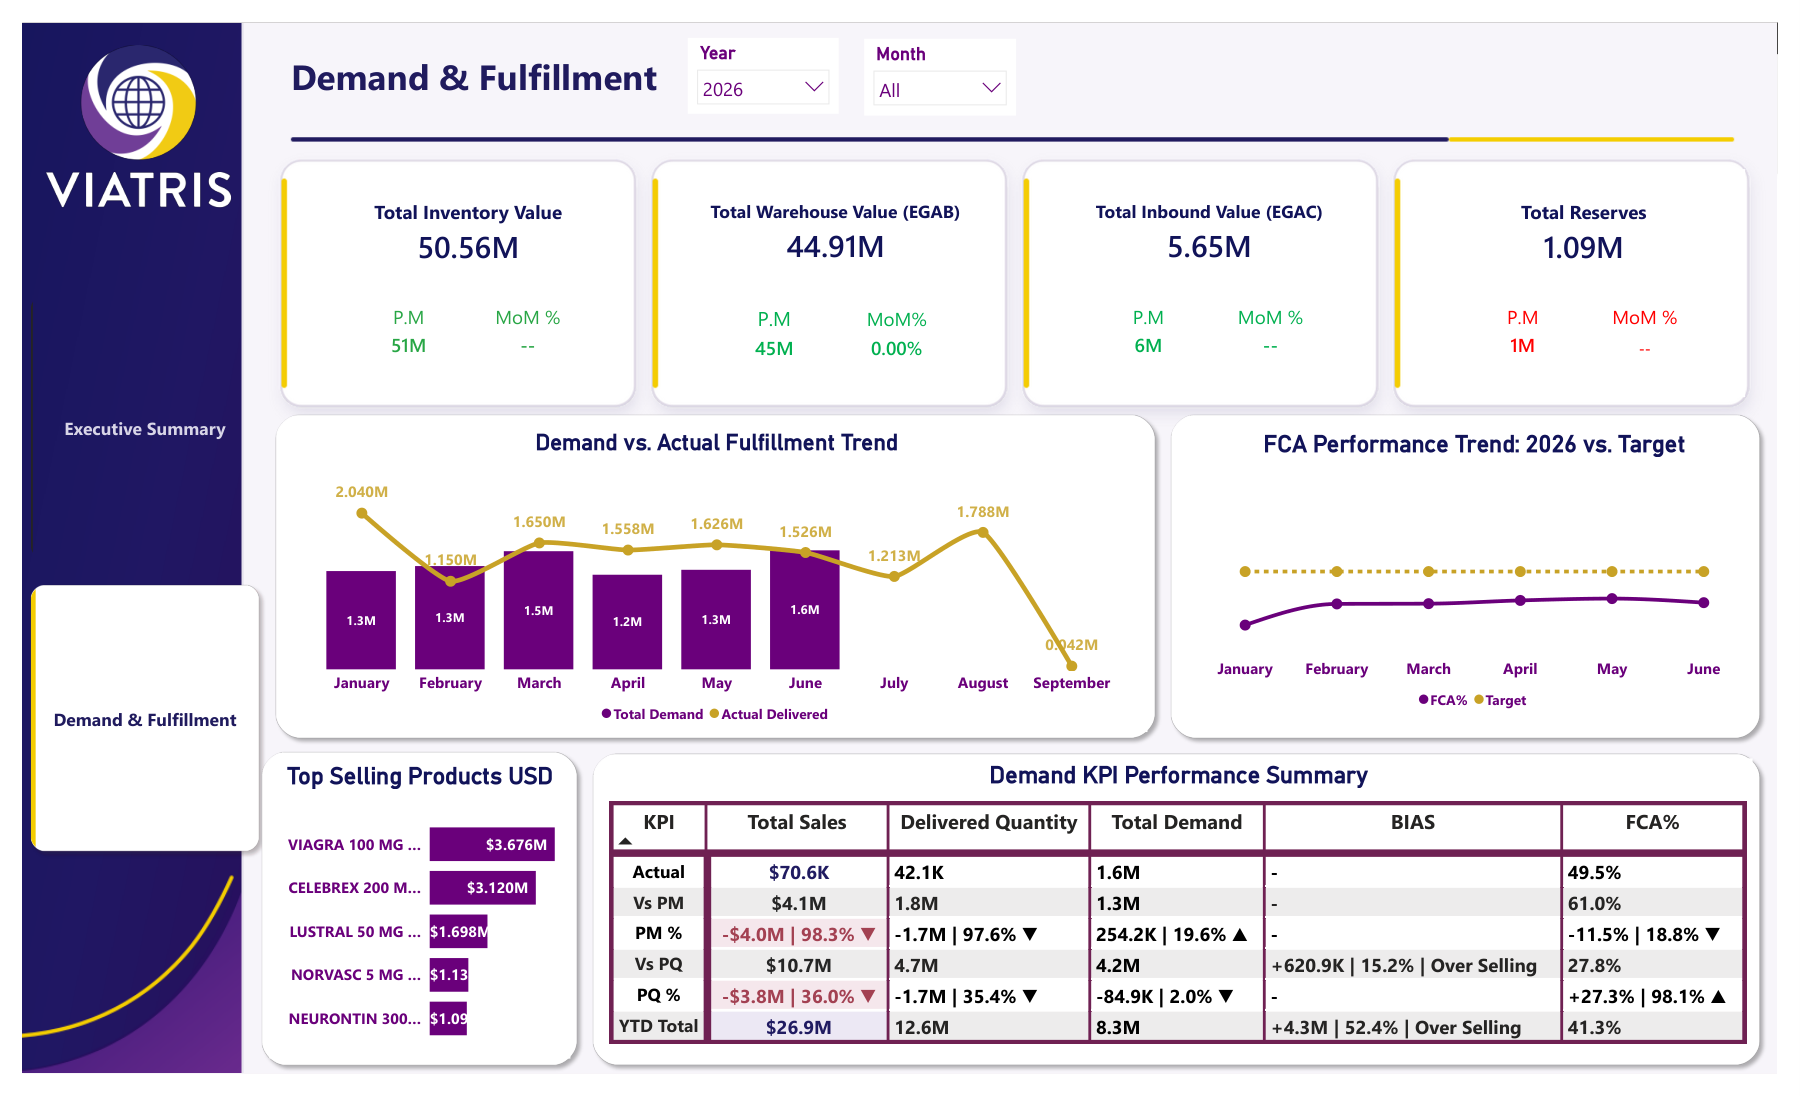
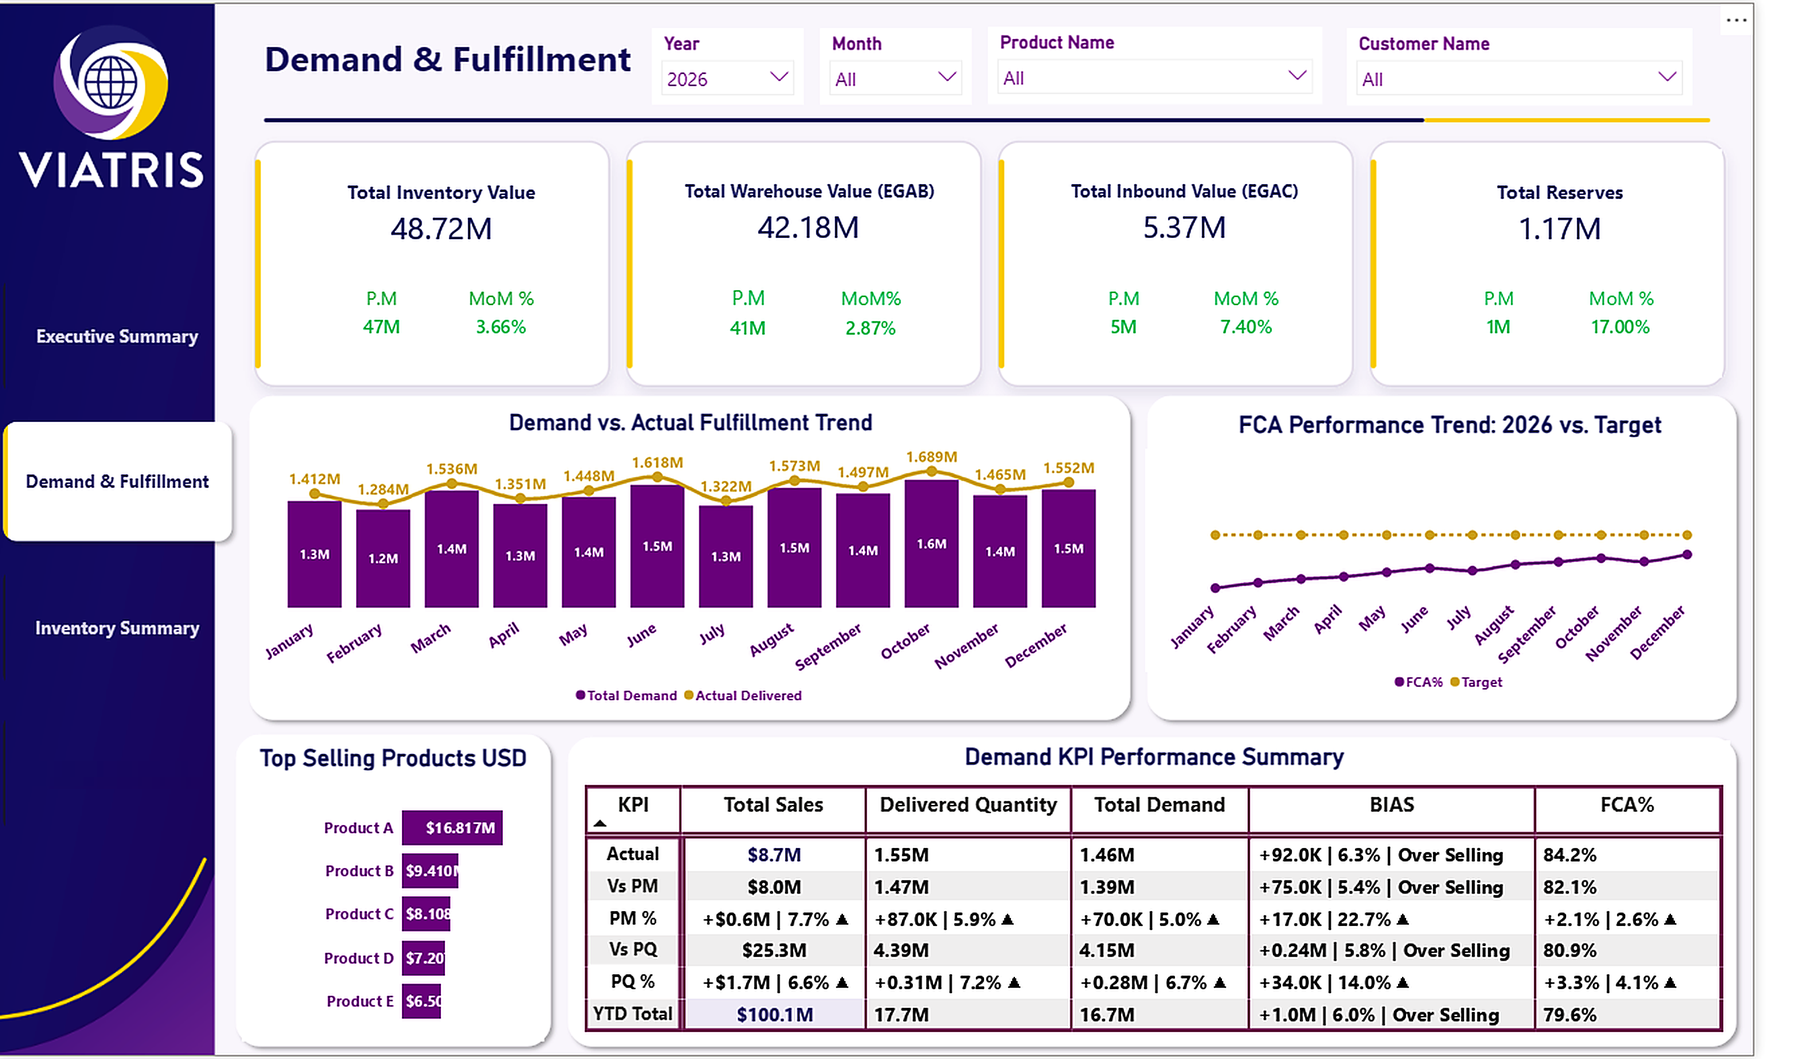
Add Pfizer and Vodafone projects, CV updates, anonymized Demand Planning screenshots
- New project cards for the Pfizer sales/forecast/budget and Vodafone customer analysis repos
- Viatris bullets, Route Academy diploma (Feb-Aug 2026), soft skills, languages, LinkedIn/GitHub links
- Demand Planning page now uses anonymized screenshots and adds the Inventory Summary page

Claude-Session: https://claude.ai/code/session_01RbX52EozQSR7tPzwN6peUa

diff --git a/index.html b/index.html
@@ -11,7 +11,7 @@
 <header class="masthead">
   <div class="masthead-inner">
     <div class="id-block">
-      <span class="id-code">MY-04</span>
+      <span class="id-code">MY-05</span>
       <h1>Mohamed Yasser Kamal</h1>
       <p class="role">Inventory Controller &amp; Data Analyst — Obour City, Cairo, Egypt</p>
     </div>
@@ -47,6 +47,7 @@
         <div class="manifest-row"><span>Core tools</span><strong>SAP · Power BI · SQL · Python</strong></div>
         <div class="manifest-row"><span>Languages</span><strong>Arabic · English · German (basic)</strong></div>
         <div class="manifest-row"><span>Education</span><strong>BBA, Accounting — MIU</strong></div>
+        <div class="manifest-row"><span>Training</span><strong>Data Analysis Diploma — Route Academy</strong></div>
       </div>
     </div>
   </section>
@@ -60,11 +61,23 @@
         <div class="entry-body">
           <h4>Inventory Controller — Viatris Pharma</h4>
           <ul>
-            <li>Coordinated daily receipt of finished goods from production to keep schedules on track.</li>
-            <li>Managed warehouse capacity, independently transferring excess stock to external sites to prevent overcrowding.</li>
-            <li>Built and maintained Power BI dashboards tracking Forecast Accuracy and supply chain variances, replacing manual reports.</li>
-            <li>Ran daily stock movements, cycle counts, and monthly inventory reconciliations in SAP.</li>
-            <li>Kept warehouse operations and paperwork audit-ready under GMP/EHS standards.</li>
+            <li>Designed and built Power BI dashboards end to end, from raw SAP data to published reports, tracking Forecast Accuracy %, demand vs. supply variance and stock levels, replacing manual Excel reporting.</li>
+            <li>Extracted inventory and stock-movement data from SAP, cleaned it with Power Query and Advanced Excel, and built the data model and DAX measures that keep KPIs calculated and refreshed.</li>
+            <li>Analyzed forecast-vs-actual and inventory variances every month, found the root causes behind gaps, and presented findings to management and planning.</li>
+            <li>Worked with production, procurement and distribution to turn their business questions into clear KPIs and dashboard views.</li>
+            <li>Ran daily stock movements, cycle counts and monthly inventory reconciliations in SAP, audit-ready under GMP/EHS standards.</li>
+          </ul>
+        </div>
+      </li>
+
+      <li class="entry">
+        <div class="entry-date"><span>Feb 2026</span><span>– Aug 2026</span></div>
+        <div class="entry-body">
+          <h4>Data Analysis Diploma — Route Academy</h4>
+          <ul>
+            <li>Advanced SQL: views, CTEs, window functions (RANK, ROW_NUMBER, LAG), correlated subqueries and performance tuning with indexes and execution plans.</li>
+            <li>Python and Advanced Excel (Power Query, PivotTables) for cleaning, transforming and preparing raw data; EDA across the full data lifecycle.</li>
+            <li>Power BI data modeling and DAX, applied end to end in two capstone projects.</li>
           </ul>
         </div>
       </li>
@@ -111,6 +124,20 @@
     <h3 class="section-label">Projects</h3>
     <div class="build-cards">
 
+      <a class="build-card" href="https://github.com/mohamedyasser6044/pfizer-demand-planning">
+        <span class="build-tag">Power BI · SQL · Portfolio project</span>
+        <h4>Pfizer Sales, Forecast &amp; Budget Dashboard</h4>
+        <p>A 3.2M-row messy sales table cleaned in MySQL, then a three-page report explaining why 2025 sales missed budget: forecast accuracy, bias, lag analysis and the 2026 outlook.</p>
+        <span class="build-link">View repository →</span>
+      </a>
+
+      <a class="build-card" href="https://github.com/mohamedyasser6044/vodafone-customer-analysis">
+        <span class="build-tag">Power BI · Portfolio project</span>
+        <h4>Vodafone Egypt Customers &amp; Product Analysis</h4>
+        <p>One-page dashboard in Vodafone's identity tracking revenue, ARPU, app logins, data use and subscribers vs. the previous year, with every chart titled as a business question.</p>
+        <span class="build-link">View repository →</span>
+      </a>
+
       <a class="build-card" href="https://github.com/mohamedyasser6044/sales-collections-dashboard">
         <span class="build-tag">Power BI · Diploma graduation project</span>
         <h4>Real Estate Sales &amp; Collections Dashboard</h4>
@@ -121,7 +148,7 @@
       <a class="build-card" href="projects/demand-planning/index.html">
         <span class="build-tag">Power BI · Private project</span>
         <h4>Demand Planning Dashboard</h4>
-        <p>Forecast accuracy and demand variance analysis built on the same supply-chain data discipline used daily at Viatris Pharma.</p>
+        <p>Three-page pharma demand-planning report: sales trend, Pareto, supply risk, demand vs. fulfillment, forecast accuracy and inventory movement. Figures anonymized.</p>
         <span class="build-link">View project details →</span>
       </a>
 
@@ -144,8 +171,16 @@
         <span class="stock-items">GMP · EHS · Continuous improvement</span>
       </div>
       <div class="stock-row">
-        <span class="stock-label">Currently training</span>
-        <span class="stock-items">Data Analysis Diploma — Route Academy (data cleaning, EDA, Power Query, dashboards)</span>
+        <span class="stock-label">Analytics</span>
+        <span class="stock-items">Data cleaning · EDA · Data modeling · DAX · Forecast accuracy &amp; bias · Variance analysis</span>
+      </div>
+      <div class="stock-row">
+        <span class="stock-label">Soft skills</span>
+        <span class="stock-items">Multi-stakeholder handling · Negotiation · Independent action · Communication · Teamwork</span>
+      </div>
+      <div class="stock-row">
+        <span class="stock-label">Languages</span>
+        <span class="stock-items">Arabic (native) · English (fluent) · German (basic)</span>
       </div>
     </div>
   </section>
@@ -158,6 +193,8 @@
     <div class="contact-lines">
       <a href="mailto:mohamedyasser6044@gmail.com">mohamedyasser6044@gmail.com</a>
       <a href="tel:+201558330357">+20 155 833 0357</a>
+      <a href="https://www.linkedin.com/in/mohmedabozaid1">LinkedIn</a>
+      <a href="https://github.com/mohamedyasser6044">GitHub</a>
       <span>Obour City, Cairo, Egypt</span>
     </div>
   </div>

diff --git a/projects/demand-planning/index.html b/projects/demand-planning/index.html
@@ -11,7 +11,7 @@
 <header class="masthead">
   <div class="masthead-inner">
     <div class="id-block">
-      <span class="id-code">MY-04</span>
+      <span class="id-code">MY-05</span>
       <h1>Mohamed Yasser Kamal</h1>
       <p class="role">Inventory Controller &amp; Data Analyst — Obour City, Cairo, Egypt</p>
     </div>
@@ -27,13 +27,15 @@
     <span class="build-tag" style="font-size:14px; margin-bottom:14px; display:inline-block;">Power BI · Private project</span>
     <h2 style="font-size:32px; font-weight:500; max-width: 32ch;">Demand Planning Dashboard</h2>
     <p class="hero-body" style="margin-top: 16px;">
-      A two-page Power BI report for pharmaceutical demand planning, built on Viatris Pharma
-      supply-chain data. It answers one question for planners and commercial leadership:
+      A three-page Power BI report for pharmaceutical demand planning, modeled on the
+      supply-chain reporting I build at Viatris Pharma. Product names and all figures shown here
+      are anonymized. It answers one question for planners and commercial leadership:
       <strong>are we fulfilling the demand we forecast, and where is stock about to become a
       problem?</strong> Page one is the executive view — sales, stock position, pending orders,
       incoming shipments and product-level supply risk. Page two goes into demand accuracy —
       demand vs. actual fulfillment, forecast accuracy against target, and inventory movement
-      month over month.
+      month over month. Page three tracks the stock itself — what is available, returned, expiring
+      and moving in and out of the warehouse.
     </p>
   </section>
 
@@ -46,13 +48,13 @@
       <figcaption style="color: var(--slate); font-size: 14px; margin-top: 10px;">
         <strong style="color: var(--ink);">Executive Summary</strong> — current sales with
         month-over-month comparison, available stock split into released vs. quarantine, pending
-        orders and incoming shipments with next ETA. The centre panel switches between Sales Trend,
-        a Pareto view of which products carry 80% of sales, and a product-level supply-risk table;
-        below it, near-expiry batches by SLED/BBD and inbound quantity by delivery date.
+        orders and incoming shipments with next ETA; the 12-month sales trend with peak month and top
+        product; a Pareto view of which products carry 80% of sales; and a product-level supply-risk
+        table comparing released stock against open orders.
       </figcaption>
     </figure>
 
-    <figure style="margin: 0 0 12px;">
+    <figure style="margin: 0 0 32px;">
       <img src="screenshots/demand-fulfillment.png" alt="Demand Planning dashboard — Demand and Fulfillment page"
            style="width:100%; border:1px solid var(--line); display:block;">
       <figcaption style="color: var(--slate); font-size: 14px; margin-top: 10px;">
@@ -61,6 +63,16 @@
         demand vs. actual delivered quantity; forecast accuracy against target; and a colour-coded
         KPI matrix covering sales, delivery, demand, BIAS and FCA % against prior month, prior
         quarter and year to date.
+      </figcaption>
+    </figure>
+    <figure style="margin: 0 0 12px;">
+      <img src="screenshots/inventory-summary.png" alt="Demand Planning dashboard — Inventory Summary page"
+           style="width:100%; border:1px solid var(--line); display:block;">
+      <figcaption style="color: var(--slate); font-size: 14px; margin-top: 10px;">
+        <strong style="color: var(--ink);">Inventory Summary</strong> — available stock split into
+        released vs. quarantine, EPX stock, current returns and expiry returns with month-over-month
+        change; the top 10 products by stock; monthly IN &amp; OUT movement; and a stamping table that
+        flags which orders need stamps before they can ship.
       </figcaption>
     </figure>
   </section>
@@ -82,7 +94,7 @@
       </div>
       <div class="stock-row">
         <span class="stock-label">Breakdowns</span>
-        <span class="stock-items">By product · by customer · by month and year · by batch (expiry) ·
+        <span class="stock-items">By product · by customer · by month and year · by stock status (released / quarantine) ·
           by warehouse delivery date</span>
       </div>
       <div class="stock-row">
